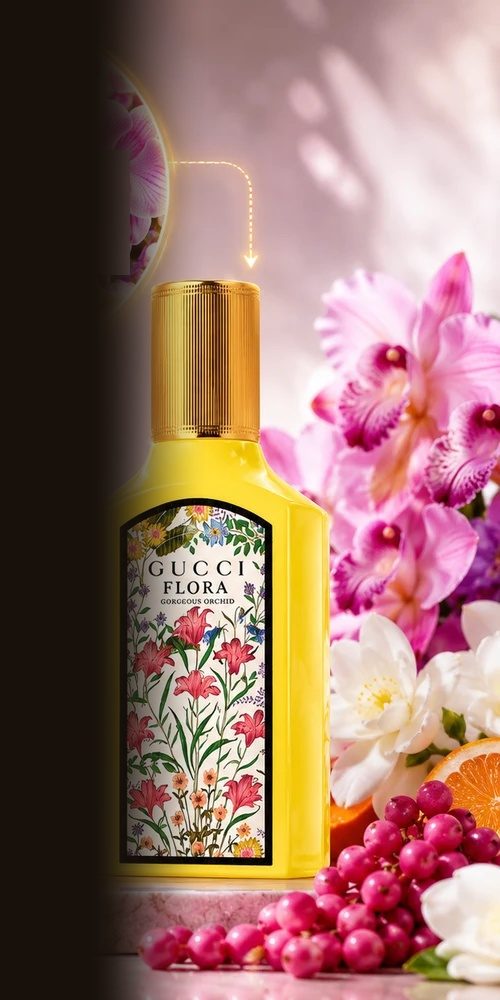
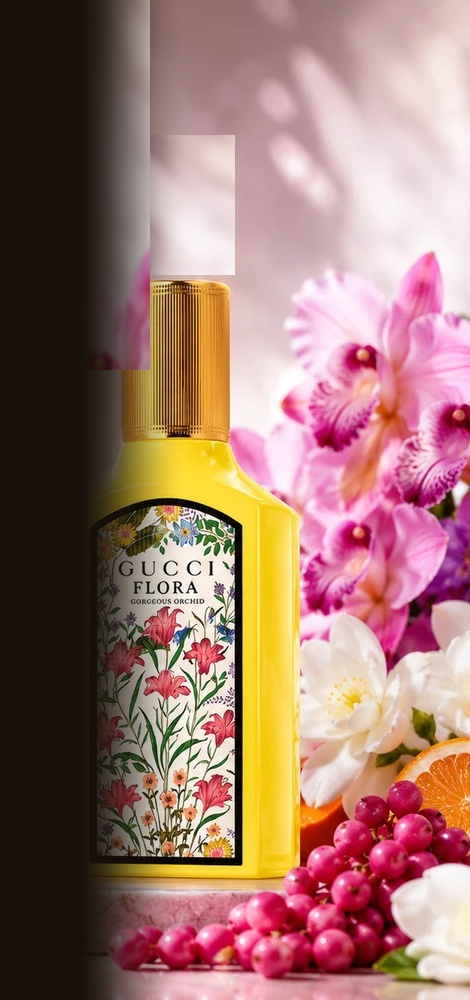
style(catalog): increase card image height to 175px, enlarge modal bottle to 280px, polish analog backgrounds and cart cache

diff --git a/assets/css/style.css b/assets/css/style.css
@@ -1625,7 +1625,7 @@ body.hero-cinematic-active .menu-toggle-btn .burger-line {
   width: 100%;
   height: 100%;
   object-fit: contain;
-  padding: 0.75rem;
+  padding: 0.35rem;
   transition: transform 0.8s cubic-bezier(0.16, 1, 0.3, 1);
 }
 
@@ -5994,10 +5994,13 @@ body.hero-cinematic-active .menu-toggle-btn .burger-line {
   inset: 0;
   background: rgba(0, 0, 0, 0.45);
   backdrop-filter: blur(8px);
+  -webkit-backdrop-filter: blur(8px);
   z-index: 1001;
   opacity: 0;
   pointer-events: none;
   transition: opacity var(--transition-smooth);
+  overscroll-behavior: contain;
+  touch-action: none;
 }
 
 .cart-drawer-backdrop.active {
@@ -6023,6 +6026,7 @@ body.hero-cinematic-active .menu-toggle-btn .burger-line {
   flex-direction: column;
   box-shadow: -15px 0 50px rgba(0, 0, 0, 0.12);
   overflow: hidden;
+  overscroll-behavior: contain;
 }
 
 .cart-drawer-backdrop.active .cart-drawer {
@@ -6108,6 +6112,7 @@ body.hero-cinematic-active .menu-toggle-btn .burger-line {
   flex: 1;
   overflow-y: auto;
   -webkit-overflow-scrolling: touch;
+  overscroll-behavior: contain;
   display: flex;
   flex-direction: column;
 }
@@ -6496,16 +6501,49 @@ body.hero-cinematic-active .menu-toggle-btn .burger-line {
   gap: 0.45rem;
   padding: 0.5rem 0.55rem;
   background: #ffffff;
-  border: 1px solid rgba(17, 18, 22, 0.1);
+  border: 1.5px solid rgba(17, 18, 22, 0.1);
   border-radius: 9px;
   transition: all 0.2s cubic-bezier(0.16, 1, 0.3, 1);
   box-shadow: 0 1px 3px rgba(0, 0, 0, 0.04);
+  cursor: pointer;
+  appearance: none;
+  font: inherit;
+  outline: none;
+  text-decoration: none;
+  position: relative;
+  width: 100%;
 }
 
 .ccs-badge:hover {
   transform: translateY(-1px);
   box-shadow: 0 4px 10px rgba(0, 0, 0, 0.08);
   border-color: rgba(129, 32, 32, 0.35);
+}
+
+.ccs-badge.active {
+  background: #FFFBF7 !important;
+  border-color: var(--bordo-primary, #812020) !important;
+  box-shadow: 0 3px 12px rgba(129, 32, 32, 0.16) !important;
+}
+
+.ccs-badge.active::after {
+  content: '✓';
+  position: absolute;
+  top: -5px;
+  right: -5px;
+  width: 15px;
+  height: 15px;
+  border-radius: 50%;
+  background: var(--bordo-primary, #812020);
+  color: #FFFFFF;
+  font-size: 9px;
+  font-weight: 800;
+  display: flex;
+  align-items: center;
+  justify-content: center;
+  line-height: 1;
+  box-shadow: 0 2px 5px rgba(0, 0, 0, 0.25);
+  z-index: 2;
 }
 
 .ccs-badge-info {
@@ -6981,6 +7019,10 @@ body.hero-cinematic-active .menu-toggle-btn .burger-line {
   margin-bottom: 0.25rem;
 }
 
+.footer-requisites-bar {
+  display: none !important;
+}
+
 .footer-legal-link {
   color: #6E6760;
   font-size: 0.8rem;
@@ -7449,10 +7491,10 @@ body.hero-cinematic-active .menu-toggle-btn .burger-line {
     background: #ffffff !important;
   }
   .card-img-wrap {
-    height: 150px;
+    height: 175px;
     margin-bottom: 0.65rem;
-    padding: 0.25rem;
-    border-radius: 10px;
+    padding: 0.15rem;
+    border-radius: 12px;
     width: 100% !important;
     max-width: 100% !important;
     box-sizing: border-box !important;
@@ -7460,7 +7502,7 @@ body.hero-cinematic-active .menu-toggle-btn .burger-line {
     border: none !important;
   }
   .card-img-wrap img {
-    padding: 0.25rem;
+    padding: 0.15rem;
     max-width: 100% !important;
     max-height: 100% !important;
     object-fit: contain !important;
@@ -7614,11 +7656,13 @@ body.hero-cinematic-active .menu-toggle-btn .burger-line {
     gap: 1.25rem;
   }
   .modal-main-img {
-    max-height: 220px;
+    max-height: 280px;
+    width: 100%;
     aspect-ratio: 1;
     margin: 0 auto;
     display: block;
-    padding: 0.25rem;
+    padding: 0.15rem;
+    object-fit: contain;
     background: #ffffff !important;
     border: none !important;
   }
@@ -13237,9 +13281,12 @@ button, a, input, select, textarea, [role="button"] {
   }
 
   .modal-main-img {
-    max-height: 200px !important;
+    max-height: 280px !important;
+    width: 100% !important;
     aspect-ratio: 1 !important;
     margin: 0 auto !important;
+    padding: 0.15rem !important;
+    object-fit: contain !important;
     background: #ffffff !important;
     border: none !important;
   }
@@ -13297,9 +13344,16 @@ button, a, input, select, textarea, [role="button"] {
   }
 
   .card-img-wrap {
-    height: 135px !important;
+    height: 175px !important;
     width: 100% !important;
     box-sizing: border-box !important;
+  }
+
+  .card-img-wrap img {
+    padding: 0.15rem !important;
+    max-width: 100% !important;
+    max-height: 100% !important;
+    object-fit: contain !important;
   }
 
   .card-title {
@@ -15246,7 +15300,16 @@ body.hero-cinematic-active .header .trigger-cart svg {
     background: radial-gradient(130% 120% at 85% 20%, #3D2714 0%, #1D1106 60%, #0C0602 100%) !important;
   }
 
+  .acc-bg-analogs {
+    background:
+      linear-gradient(to right, #18110B 0%, rgba(24, 17, 11, 0.88) 42%, rgba(24, 17, 11, 0.3) 70%, rgba(24, 17, 11, 0) 100%),
+      url('../images/perfumes/cat_analogs_clean.jpg') right center / cover no-repeat !important;
+  }
+
   .acc-panel.acc-panel-boxes {
+    grid-column: 1 / -1 !important;
+    aspect-ratio: auto !important;
+    min-height: 142px !important;
     border: 1px solid rgba(255, 255, 255, 0.09) !important;
     box-shadow: 0 8px 24px -4px rgba(20, 15, 12, 0.25) !important;
   }

diff --git a/assets/js/app.js b/assets/js/app.js
@@ -52,6 +52,9 @@ function resolveSafeMediaUrl(raw, fallback = 'assets/images/noroot.png') {
   const s = String(raw || '').trim();
   if (!s) return fallback;
   if (/^(javascript|vbscript|data:text\/html):/i.test(s)) return fallback;
+  if (s.includes('assets/uploads/perfumes/') && !s.includes('?')) {
+    return s + '?v=20261128_v1';
+  }
   return s;
 }
 
